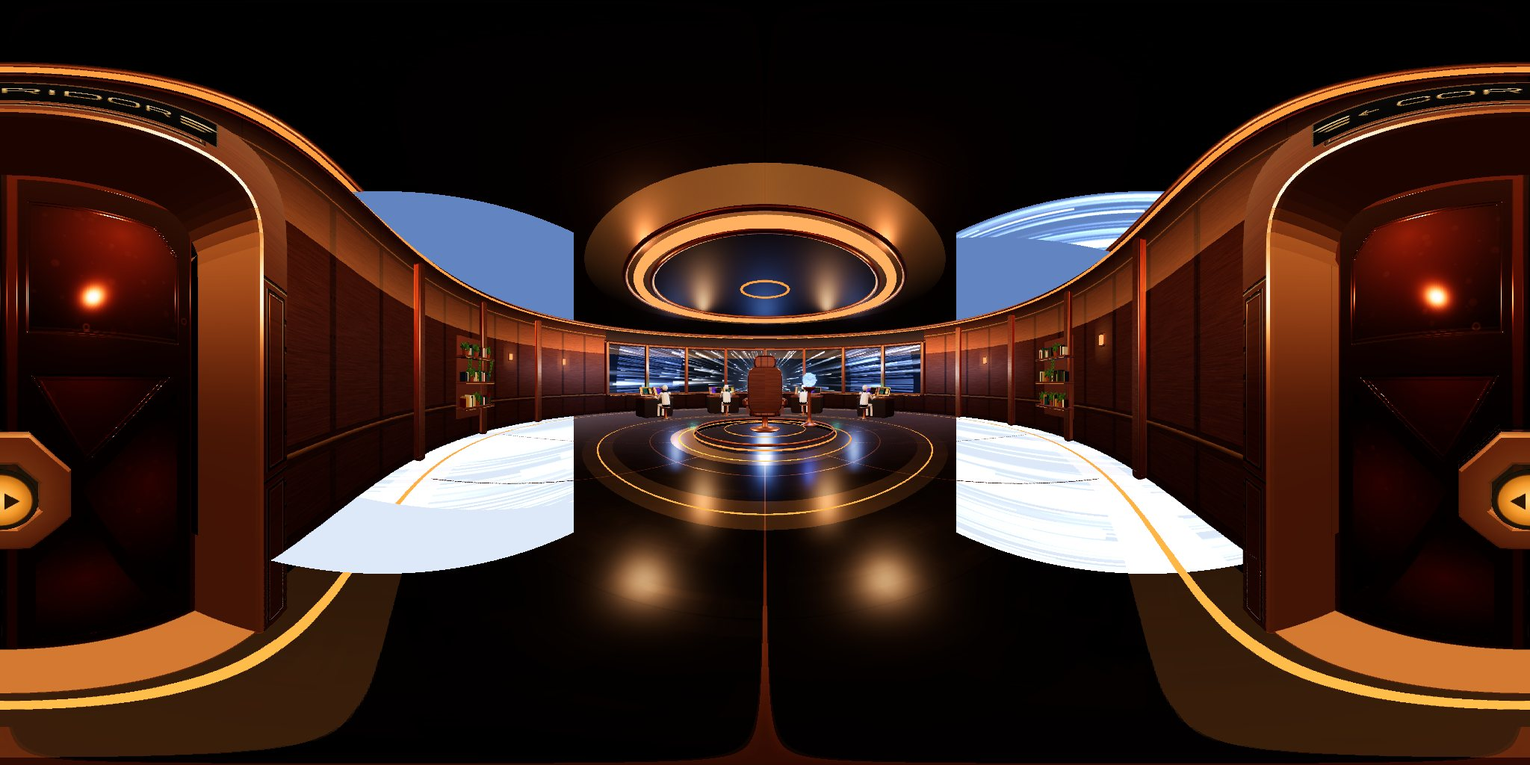
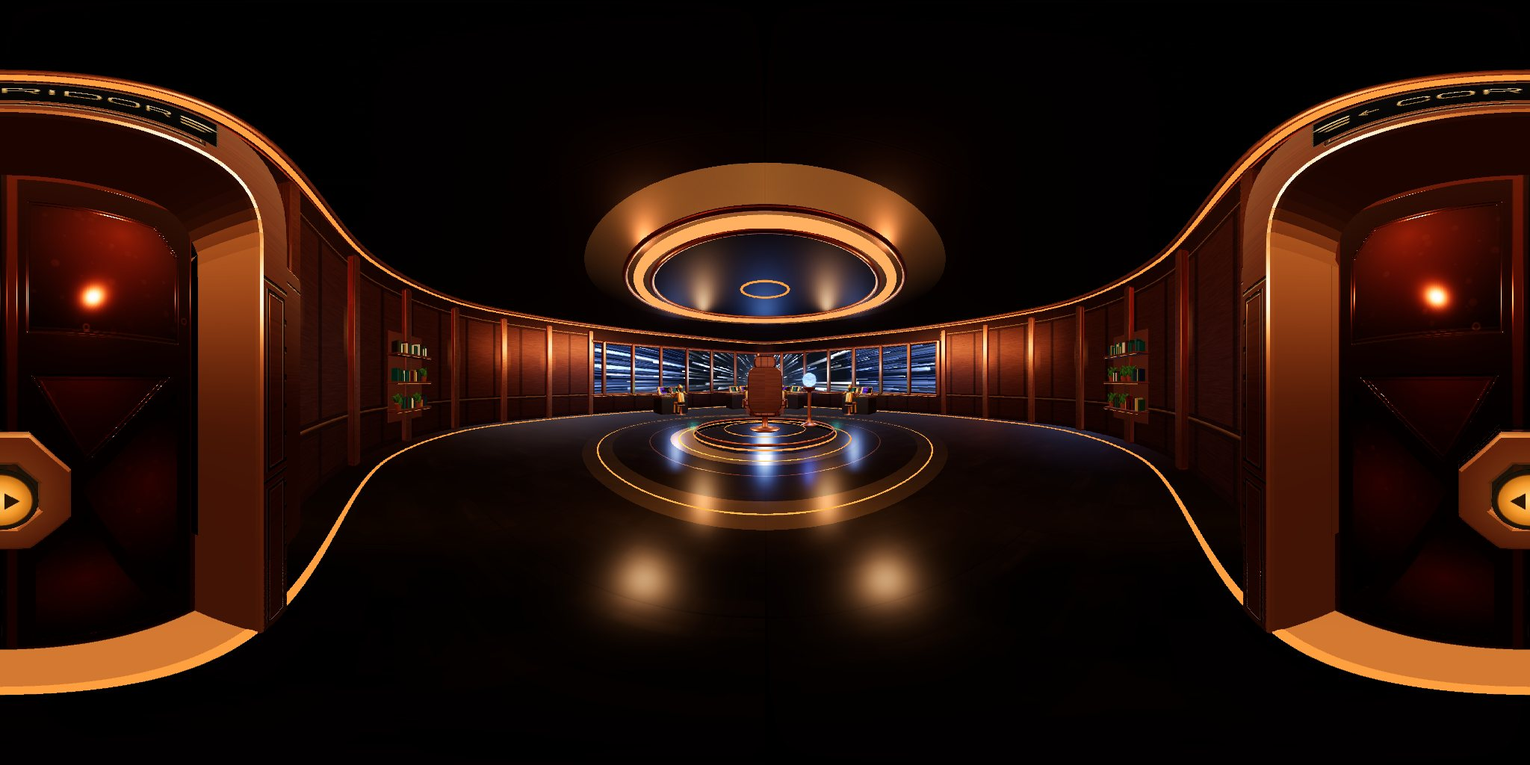
Bridge: guitar-pick room following the ship's pointed nose, window wrapping the tip, console row along it; gold droids; polygon room bounds
Claude-Session: https://claude.ai/code/session_015swmRW9rk9HZt8JyLRwsXT

diff --git a/bridge.html b/bridge.html
@@ -16,11 +16,11 @@
   <meta property="og:image:alt" content="The bronze SS Wayfarer in orbit above a sunlit planet.">
   <meta name="twitter:card" content="summary_large_image">
   <script src="https://aframe.io/releases/1.5.0/aframe.min.js"></script>
-  <script src="mobile.js?v=20261125j"></script>
-  <script src="avatar.js?v=20261125j"></script>
-  <script src="door.js?v=20261125j"></script>
-  <script src="hyperspace.js?v=20261125j"></script>
-  <script src="lcars.js?v=20261125j"></script>
+  <script src="mobile.js?v=20261125k"></script>
+  <script src="avatar.js?v=20261125k"></script>
+  <script src="door.js?v=20261125k"></script>
+  <script src="hyperspace.js?v=20261125k"></script>
+  <script src="lcars.js?v=20261125k"></script>
   <script>if (/[?&]from=flight/.test(location.search)) document.documentElement.className += ' from-flight';</script>
   <style>
     * { margin: 0; padding: 0; box-sizing: border-box; }
@@ -65,7 +65,7 @@
   <!-- Style reference: reference/interiors-doors-closed.jpg (Command Bridge panel).
        Round room (r 8.2): panoramic window across the bow (−Z) showing light speed, amber ceiling ring, raised dais with the
        captain's chair, blue orb on a brass stand, four robots at consoles. Exit (shared door.js) at +Z. -->
-  <a-scene device-orientation-permission-ui="enabled: false" wayfarer-mobile="radius: 7.5" wf-bridge light="defaultLightsEnabled: false"
+  <a-scene device-orientation-permission-ui="enabled: false" wayfarer-mobile="radius: 0" wf-bridge light="defaultLightsEnabled: false"
     background="color: #02040c"
     vr-mode-ui="enabled: true"
     renderer="antialias: true; toneMapping: ACESFilmic; exposure: 1.1">
@@ -170,8 +170,8 @@
         amber:  new THREE.MeshBasicMaterial({ color: 0xffa040, toneMapped: false }),
         lamp:   new THREE.MeshBasicMaterial({ color: 0xffb468, toneMapped: false }),
         leather:new THREE.MeshStandardMaterial({ map: leatherTexture(), roughness: 0.24, metalness: 0.92 }),   // the chair: copper, not leather
-        shell:  new THREE.MeshStandardMaterial({ color: 0xe6e7ea, roughness: 0.28, metalness: 0.25 }),
-        joint:  new THREE.MeshStandardMaterial({ color: 0x2a2c31, roughness: 0.4, metalness: 0.6 }),
+        shell:  new THREE.MeshStandardMaterial({ color: 0xe0b050, roughness: 0.22, metalness: 0.95 }),   // polished gold droids (user: match the metal Bridge)
+        joint:  new THREE.MeshStandardMaterial({ color: 0x4a3218, roughness: 0.35, metalness: 0.85 }),
         wood:   new THREE.MeshStandardMaterial({ color: 0xb87048, roughness: 0.32, metalness: 0.9 }),   // shelves: copper sheet (name kept)
         leaf:   new THREE.MeshStandardMaterial({ color: 0x3f6b2e, roughness: 0.8, side: THREE.DoubleSide }),
         pot:    new THREE.MeshStandardMaterial({ color: 0x8a4a2a, roughness: 0.8 })
@@ -179,51 +179,80 @@
       var add = function (tx, col, op) { return new THREE.MeshBasicMaterial({ map: tx, color: col, transparent: true, opacity: op, blending: THREE.AdditiveBlending, depthWrite: false, toneMapped: false }); };
       var dot = dotTex(), back = Math.PI * 2 - WIN_ARC;
 
-      // ── shell: solid walls round the back, sill + header round the bow, the window between ──
-      var wall = new THREE.CylinderGeometry(R, R, WALL_H, 96, 1, true, Math.PI + WIN_ARC / 2, back);
-      M.wall.map.repeat.set(Math.round(back * R / 1.3), 1); mesh(wall, M.wall, root, 0, WALL_H / 2, 0);
-      var low = new THREE.CylinderGeometry(R, R, WIN_Y0, 64, 1, true, Math.PI - WIN_ARC / 2, WIN_ARC), lowM = M.wall.clone(); lowM.map = M.wall.map.clone(); lowM.map.repeat.set(16, WIN_Y0 / WALL_H); lowM.map.needsUpdate = true;
-      mesh(low, lowM, root, 0, WIN_Y0 / 2, 0);
-      var hi = new THREE.CylinderGeometry(R, R, WALL_H - WIN_Y1, 64, 1, true, Math.PI - WIN_ARC / 2, WIN_ARC); mesh(hi, M.dark, root, 0, (WALL_H + WIN_Y1) / 2, 0).material = new THREE.MeshStandardMaterial({ color: 0x2a211b, roughness: 0.7, metalness: 0.2, side: THREE.BackSide });
-      var glass = new THREE.CylinderGeometry(R - 0.04, R - 0.04, WIN_Y1 - WIN_Y0, 64, 1, true, Math.PI - WIN_ARC / 2, WIN_ARC);
-      mesh(glass, new THREE.MeshBasicMaterial({ color: 0x8fb8ff, transparent: true, opacity: 0.06, depthWrite: false, side: THREE.DoubleSide }), root, 0, (WIN_Y0 + WIN_Y1) / 2, 0);
-      // sill shelf and header beam (bronze), mullions between eight panes
-      var sill = new THREE.RingGeometry(R - 0.42, R, 64, 1, Math.PI / 2 - WIN_ARC / 2 - 0.02, WIN_ARC + 0.04); var sm = mesh(sill, M.bronze, root, 0, WIN_Y0, 0); sm.rotation.x = -Math.PI / 2;
-      [WIN_Y0 + 0.02, WIN_Y1].forEach(function (y, i) { var t = mesh(new THREE.TorusGeometry(R - 0.08, i ? 0.11 : 0.06, 10, 96, WIN_ARC + 0.04), M.bronze, root, 0, y, 0); t.rotation.set(-Math.PI / 2, 0, Math.PI / 2 - WIN_ARC / 2 - 0.02); });
-      var mull = soft(rrect(0.14, WIN_Y1 - WIN_Y0, 0.05), 0.16, 0.025);
-      for (var k = 0; k <= 8; k++) { var th = -WIN_ARC / 2 + k * WIN_ARC / 8, p = polar(th, R - 0.12, (WIN_Y0 + WIN_Y1) / 2), m = mesh(mull, M.bronze, root, p.x, p.y, p.z); m.rotation.y = -th; }
-      // console ledge glow under the window
-      var sg = mesh(new THREE.TorusGeometry(R - 0.42, 0.012, 6, 96, WIN_ARC), M.amber, root, 0, WIN_Y0 - 0.02, 0); sg.rotation.set(-Math.PI / 2, 0, Math.PI / 2 - WIN_ARC / 2);
-
-      // back wall: ribs, sconces, plant shelves either side
-      var leg = soft(rrect(0.2, WALL_H - 0.4, 0.05), 0.1, 0.03), sc0 = soft(rrect(0.2, 0.3, 0.04), 0.02, 0.01), scL = soft(rrect(0.13, 0.2, 0.03), 0.035, 0.01);
-      for (var d = 85; d <= 275; d += 22) {
-        var th2 = d * Math.PI / 180; if (Math.abs(d - 180) < 16) continue;
-        var pl = polar(th2, R - 0.06, (WALL_H - 0.4) / 2), lg = mesh(leg, M.bronze, root, pl.x, pl.y, pl.z); lg.rotation.y = -th2 + Math.PI;
-        var mid = th2 + 11 * Math.PI / 180; if (d + 11 > 275 || Math.abs(d + 11 - 180) < 22 || Math.abs(d + 11 - 125) < 9 || Math.abs(d + 11 - 235) < 9) continue;
-        var ps = polar(mid, R - 0.02, 2.55), b1 = mesh(sc0, M.bronze, root, ps.x, ps.y, ps.z); b1.rotation.y = -mid + Math.PI;
-        var pl2 = polar(mid, R - 0.05, 2.54), b2 = mesh(scL, M.lamp, root, pl2.x, pl2.y, pl2.z); b2.rotation.y = -mid + Math.PI;
-        var gp = polar(mid, R - 0.01, 2.55), gl = mesh(new THREE.PlaneGeometry(1.2, 1.2), add(dot, 0xff9a3c, 0.4), root, gp.x, gp.y, gp.z); gl.rotation.y = -mid;
+      // ── the room is a GUITAR PICK (user, Nov 25 + reference/ship-topdown-interior.jpg): the ship's nose is a rounded triangle,
+      //    so the Bridge narrows to a point at the bow (−Z) with the window wrapped round the point and a wide back edge (door).
+      var CP = [[0, 8.3], [5.2, 7.6], [8.1, 4.6], [8.6, 0.5], [7.3, -3.8], [4.8, -7.2], [2.0, -9.6], [0, -10.4], [-2.0, -9.6], [-4.8, -7.2], [-7.3, -3.8], [-8.6, 0.5], [-8.1, 4.6], [-5.2, 7.6]];
+      var curve = new THREE.CatmullRomCurve3(CP.map(function (q) { return new THREE.Vector3(q[0], 0, q[1]); }), true, 'centripetal');
+      var NP = 220, P = curve.getSpacedPoints(NP).slice(0, NP), Nrm = [], arc = [0];
+      for (var i = 0; i < NP; i++) { var a0 = P[(i + NP - 1) % NP], a1 = P[(i + 1) % NP], tx = a1.x - a0.x, tz = a1.z - a0.z, n = new THREE.Vector3(-tz, 0, tx).normalize(); if (n.x * (0 - P[i].x) + n.z * (-0.6 - P[i].z) < 0) n.negate(); Nrm.push(n); if (i) arc.push(arc[i - 1] + P[i].distanceTo(P[i - 1])); }
+      var LEN = arc[NP - 1] + P[NP - 1].distanceTo(P[0]);
+      window.WAYFARER.bounds = P.map(function (q) { return [q.x, q.z]; });              // mobile.js + avatar.js keep you (and the lens) inside this
+      function isWin(i) { return P[i].z < -2.2; }
+      function strip(idx, y0, y1, mat, inset, uvFn, closed) {                           // a vertical ribbon along outline points
+        var pos = [], uv = [], ind = [], SEG = 6, L = idx.length;
+        idx.forEach(function (i, k) { for (var j = 0; j <= SEG; j++) { var y = y0 + (y1 - y0) * j / SEG, q = P[i].clone().addScaledVector(Nrm[i], inset || 0); pos.push(q.x, y, q.z); var u = uvFn ? uvFn(i, y) : [arc[i] / 1.3, y / WALL_H]; uv.push(u[0], u[1]); } });
+        for (var k = 0; k < L - 1 + (closed ? 1 : 0); k++) for (var j = 0; j < SEG; j++) { var a = k * (SEG + 1) + j, b = ((k + 1) % L) * (SEG + 1) + j; ind.push(a, b, a + 1, a + 1, b, b + 1); }
+        var g = new THREE.BufferGeometry(); g.setAttribute('position', new THREE.Float32BufferAttribute(pos, 3)); g.setAttribute('uv', new THREE.Float32BufferAttribute(uv, 2)); g.setIndex(ind); g.computeVertexNormals();
+        var m = mat.clone ? mat : mat; var o = new THREE.Mesh(g, m); root.add(o); return o;
       }
-      [125, 235].forEach(function (dg) { plantShelf(dg * Math.PI / 180); });
+      function tube(idx, y, inset, r, mat, closed) { var pts = idx.map(function (i) { var q = P[i].clone().addScaledVector(Nrm[i], inset); q.y = y; return q; }); return mesh(new THREE.TubeGeometry(new THREE.CatmullRomCurve3(pts, !!closed), Math.max(8, pts.length * 2), r, 6, !!closed), mat, root); }
+      function fan(y, mat, flip) {                                                        // floor/ceiling: tessellated rings from the middle out (no long thin fan triangles)
+        var C = new THREE.Vector3(0, y, -0.6), RS = 14, pos = [], uv = [], ind = [];
+        for (var i = 0; i < NP; i++) for (var k = 0; k <= RS; k++) { var t = k / RS, x = C.x + (P[i].x - C.x) * t, z = C.z + (P[i].z - C.z) * t; pos.push(x, y, z); uv.push(x / 16.4 + 0.5, z / 16.4 + 0.5); }
+        for (i = 0; i < NP; i++) for (k = 0; k < RS; k++) { var a = i * (RS + 1) + k, b = ((i + 1) % NP) * (RS + 1) + k; if (flip) ind.push(a, a + 1, b, a + 1, b + 1, b); else ind.push(a, b, a + 1, a + 1, b, b + 1); }
+        var g = new THREE.BufferGeometry(); g.setAttribute('position', new THREE.Float32BufferAttribute(pos, 3)); g.setAttribute('uv', new THREE.Float32BufferAttribute(uv, 2)); g.setIndex(ind); g.computeVertexNormals(); return mesh(g, mat, root);
+      }
+      var all = [], winI = [], wallRuns = [], run = null;
+      for (i = 0; i < NP; i++) { all.push(i); if (isWin(i)) winI.push(i); }
+      // window indices are contiguous round the tip; walk from the first non-window point so runs don't wrap
+      var start = 0; while (isWin(start)) start++; for (k = 0; k < NP; k++) { i = (start + k) % NP; if (!isWin(i)) { if (!run) { run = []; wallRuns.push(run); } run.push(i); } else run = null; }
+      var wi = winI.slice().sort(function (a, b) { return P[a].x - P[b].x; });   // window run ordered port → starboard
+      wi = []; for (k = 0; k < NP; k++) { i = (start + k) % NP; if (isWin(i)) wi.push(i); }
+      wi.unshift((wi[0] + NP - 1) % NP); wi.push((wi[wi.length - 1] + 1) % NP);  // overlap one point into the walls
+      M.wall.side = THREE.DoubleSide; M.wall.map.repeat.set(1, 1);
+      wallRuns.forEach(function (r2) { var ext = [(r2[0] + NP - 1) % NP].concat(r2, [(r2[r2.length - 1] + 1) % NP]); strip(ext, 0, WALL_H, M.wall); });
+      var lowM = M.wall.clone(); strip(wi, 0, WIN_Y0, lowM);
+      strip(wi, WIN_Y1, WALL_H, new THREE.MeshStandardMaterial({ color: 0x3a2216, roughness: 0.4, metalness: 0.75, side: THREE.DoubleSide }));
+      strip(wi, WIN_Y0, WIN_Y1, new THREE.MeshBasicMaterial({ color: 0x8fb8ff, transparent: true, opacity: 0.06, depthWrite: false, side: THREE.DoubleSide }), -0.02);
+      tube(wi, WIN_Y0 + 0.02, 0.08, 0.07, M.bronze); tube(wi, WIN_Y1, 0.06, 0.11, M.bronze);                   // sill + header
+      tube(wi, WIN_Y0 - 0.03, 0.4, 0.014, M.amber);                                                           // ledge glow
+      var ledge = strip(wi, WIN_Y0 - 0.06, WIN_Y0, M.bronze, 0.2);
+      var mull = soft(rrect(0.14, WIN_Y1 - WIN_Y0, 0.05), 0.16, 0.025), nextM = 0;
+      wi.forEach(function (i2) { if (arc[i2] < nextM && Math.abs(arc[i2] - nextM) < LEN / 2) return; nextM = arc[i2] + 1.55; var q = P[i2].clone().addScaledVector(Nrm[i2], 0.1), mm = mesh(mull, M.bronze, root, q.x, (WIN_Y0 + WIN_Y1) / 2, q.z); mm.rotation.y = Math.atan2(Nrm[i2].x, Nrm[i2].z); });
 
-      // ── ceiling: dark coffers, the big amber ring, a perimeter cove ──
-      var ce = mesh(new THREE.CircleGeometry(R, 96), M.ceil, root, 0, WALL_H, 0); ce.rotation.x = Math.PI / 2;
+      // walls: ribs, sconces, plant shelves; nothing over the door (+Z, |x| < 1.7)
+      var leg = soft(rrect(0.2, WALL_H - 0.4, 0.05), 0.1, 0.03), sc0 = soft(rrect(0.2, 0.3, 0.04), 0.02, 0.01), scL = soft(rrect(0.13, 0.2, 0.03), 0.035, 0.01), lastRib = -9;
+      var shelfAt = [];
+      wallRuns.forEach(function (r2) { r2.forEach(function (i2, k2) {
+        if (P[i2].z > 6.9 && Math.abs(P[i2].x) < 1.9) return;
+        if (Math.abs(arc[i2] - lastRib) < 2.3) return; lastRib = arc[i2];
+        var q = P[i2].clone().addScaledVector(Nrm[i2], 0.06), ry = Math.atan2(Nrm[i2].x, Nrm[i2].z), lg = mesh(leg, M.bronze, root, q.x, (WALL_H - 0.4) / 2, q.z); lg.rotation.y = ry;
+        var j2 = r2[Math.min(r2.length - 1, k2 + Math.round(r2.length > 12 ? 9 : 4))]; if (P[j2].z > 6.9 && Math.abs(P[j2].x) < 2.2) return;
+        var qs = P[j2].clone().addScaledVector(Nrm[j2], 0.03), ry2 = Math.atan2(Nrm[j2].x, Nrm[j2].z);
+        if (Math.abs(P[j2].x) > 5.6 && Math.abs(P[j2].x) < 7.6 && P[j2].z > 3 && shelfAt.length < 2 && !shelfAt.some(function (z) { return Math.sign(z) === Math.sign(P[j2].x); })) { shelfAt.push(P[j2].x); plantShelfAt(P[j2], Nrm[j2]); return; }
+        var b1 = mesh(sc0, M.bronze, root, qs.x, 2.55, qs.z); b1.rotation.y = ry2;
+        var q2 = P[j2].clone().addScaledVector(Nrm[j2], 0.05), b2 = mesh(scL, M.lamp, root, q2.x, 2.54, q2.z); b2.rotation.y = ry2;
+        var gq = P[j2].clone().addScaledVector(Nrm[j2], 0.01), gl = mesh(new THREE.PlaneGeometry(1.2, 1.2), add(dot, 0xff9a3c, 0.4), root, gq.x, 2.55, gq.z); gl.rotation.y = ry2;
+      }); });
+
+      // ── ceiling: dark coffers, the big amber ring, a cove that follows the pick outline ──
+      fan(WALL_H, M.ceil, true);
       var ring = mesh(new THREE.TorusGeometry(3.6, 0.13, 12, 128), new THREE.MeshBasicMaterial({ color: 0xffb060, toneMapped: false }), root, 0, WALL_H - 0.16, 0); ring.rotation.x = Math.PI / 2;
       [3.25, 3.95].forEach(function (rr) { var t = mesh(new THREE.TorusGeometry(rr, 0.07, 10, 128), M.bronze, root, 0, WALL_H - 0.12, 0); t.rotation.x = Math.PI / 2; });
       var halo = mesh(new THREE.RingGeometry(2.4, 4.9, 96, 1), add(radialRing(), 0xff9a40, 0.55), root, 0, WALL_H - 0.02, 0); halo.rotation.x = Math.PI / 2;
       var inner = mesh(new THREE.CircleGeometry(3.2, 64), new THREE.MeshStandardMaterial({ color: 0x120d0a, roughness: 0.6, metalness: 0.3, side: THREE.DoubleSide }), root, 0, WALL_H - 0.08, 0); inner.rotation.x = Math.PI / 2;
       var core = mesh(new THREE.TorusGeometry(0.7, 0.04, 8, 64), M.amber, root, 0, WALL_H - 0.1, 0); core.rotation.x = Math.PI / 2;
-      var cove = mesh(new THREE.TorusGeometry(R - 0.12, 0.035, 6, 160), M.amber, root, 0, WALL_H - 0.18, 0); cove.rotation.x = Math.PI / 2;
-      var coveW = mesh(new THREE.CylinderGeometry(R - 0.02, R - 0.02, 1.3, 96, 1, true), add(rampTex(false), 0xff9a40, 0.35), root, 0, WALL_H - 0.85, 0); coveW.material.side = THREE.BackSide;
-      coveW.material.map.rotation = Math.PI / 2; coveW.material.map.center.set(0.5, 0.5);
-      var crn = mesh(new THREE.TorusGeometry(R - 0.1, 0.09, 8, 160), M.bronze, root, 0, WALL_H - 0.08, 0); crn.rotation.x = Math.PI / 2;
+      tube(all, WALL_H - 0.18, 0.12, 0.035, M.amber, true); tube(all, WALL_H - 0.08, 0.1, 0.09, M.bronze, true);
+      strip(all.concat([0]), WALL_H - 1.5, WALL_H - 0.2, add(rampTex(false), 0xff9a40, 0.35), 0.02, function (i2, y) { return [(WALL_H - 0.2 - y) / 1.3, arc[i2] / 4]; });
 
-      // ── floor: polished deck, amber inlay rings, radial bronze lines ──
-      var fl = mesh(new THREE.CircleGeometry(R, 96), M.floor, root); fl.rotation.x = -Math.PI / 2;
-      [[DAIS_R + 0.45, 0.025, M.amber], [4.6, 0.02, M.amber], [R - 0.55, 0.03, M.amber], [3.3, 0.015, M.bronze]].forEach(function (q) { var t = mesh(new THREE.RingGeometry(q[0] - q[1], q[0] + q[1], 128), q[2], root, 0, 0.004, 0); t.rotation.x = -Math.PI / 2; });
-      for (var a = 0; a < 12; a++) { var ang = a / 12 * Math.PI * 2, ln = mesh(new THREE.PlaneGeometry(0.02, R - 0.7 - 2.6), M.bronze, root); var mp = polar(ang, (2.6 + R - 0.7) / 2, 0.004); ln.position.copy(mp); ln.rotation.set(-Math.PI / 2, 0, -ang); }
-      [4.6, R - 0.55].forEach(function (rr) { var gr = mesh(new THREE.RingGeometry(rr - 0.35, rr + 0.35, 128), add(radialRing(), 0xff8a30, 0.22), root, 0, 0.005, 0); gr.rotation.x = -Math.PI / 2; });
+      // ── floor: polished deck in the pick shape, amber inlay following the walls, rings round the dais ──
+      fan(0, M.floor, true);
+      [[DAIS_R + 0.45, 0.025, M.amber], [4.6, 0.02, M.amber], [3.3, 0.015, M.bronze]].forEach(function (q) { var t = mesh(new THREE.RingGeometry(q[0] - q[1], q[0] + q[1], 128), q[2], root, 0, 0.004, 0); t.rotation.x = -Math.PI / 2; });
+      tube(all, 0.006, 0.55, 0.03, M.amber, true);
+      var gr = mesh(new THREE.RingGeometry(4.25, 4.95, 128), add(radialRing(), 0xff8a30, 0.22), root, 0, 0.005, 0); gr.rotation.x = -Math.PI / 2;
+      // console row: four stations spaced along the window, set back from the glass and facing it
+      var SPOTS = [0.16, 0.38, 0.62, 0.84].map(function (f) { var i2 = wi[Math.round(1 + f * (wi.length - 3))], q = P[i2].clone().addScaledVector(Nrm[i2], 1.7); return { pos: q, ry: Math.atan2(Nrm[i2].x, Nrm[i2].z) }; });
+      window.__SPOTS = SPOTS;
 
       buildDais(add, dot); buildOrb(add, dot); buildStations(add, dot);
 
@@ -241,8 +270,8 @@
     function radialRing() { var c = cv(256, 4), x = c.getContext('2d'), g = x.createLinearGradient(0, 0, 256, 0); g.addColorStop(0, 'rgba(255,255,255,0)'); g.addColorStop(0.5, 'rgba(255,255,255,1)'); g.addColorStop(1, 'rgba(255,255,255,0)'); x.fillStyle = g; x.fillRect(0, 0, 256, 4); var t = new THREE.CanvasTexture(c); return t; }
 
     // ── wall-hung shelf with plants and a few books ──
-    function plantShelf(th) {
-      var g = new THREE.Group(), p = polar(th, R - 0.2, 0); g.position.copy(p); g.rotation.y = -th; root.add(g);   // local +z faces the room
+    function plantShelfAt(pt, nr) {
+      var th = Math.atan2(pt.x, -pt.z), g = new THREE.Group(), p = pt.clone().addScaledVector(nr, 0.2); p.y = 0; g.position.copy(p); g.rotation.y = Math.atan2(nr.x, nr.z); root.add(g);   // local +z faces the room
       mesh(new THREE.BoxGeometry(1.5, 2.3, 0.04), M.wood, g, 0, 1.75, -0.16);
       var r = rng(Math.round(th * 100));
       [0.9, 1.6, 2.3].forEach(function (y, row) {
@@ -306,8 +335,8 @@
     // ── four robots at curved consoles, facing the window ──
     function buildStations(add, dot) {
       var desk = soft(rrect(1.5, 0.6, 0.12), 0.8, 0.04), top = soft(rrect(1.56, 0.08, 0.03), 0.84, 0.02);
-      [-58, -22, 22, 58].forEach(function (deg, si) {
-        var th = deg * Math.PI / 180, g = new THREE.Group(); g.position.copy(polar(th, 6.0, 0)); g.rotation.y = -th; root.add(g);   // local −Z = toward the window
+      window.__SPOTS.forEach(function (sp, si) {
+        var g = new THREE.Group(); g.position.copy(sp.pos); g.position.y = 0; g.rotation.y = sp.ry; root.add(g);   // local −Z = toward the window
         var dk = mesh(desk, M.dark, g, 0, 0.42, 0); dk.scale.y = 1.4;
         mesh(top, M.bronze, g, 0, 0.86, 0);
         var strip = mesh(new THREE.BoxGeometry(1.5, 0.015, 0.015), M.amber, g, 0, 0.82, 0.43);

diff --git a/mobile.js b/mobile.js
@@ -49,6 +49,21 @@
     walk: '<svg viewBox="0 0 24 24"><path d="M12 4l3 3H9zM12 20l3-3H9zM4 12l3-3v6zM20 12l-3-3v6z" fill="currentColor"/></svg>',
     look: '<svg viewBox="0 0 24 24"><path d="M2 12s3.5-6 10-6 10 6 10 6-3.5 6-10 6S2 12 2 12z"/><circle cx="12" cy="12" r="2.5"/></svg>'
   };
+  // point-in-polygon + push back inside by `pad` (returns null when already fine). Shared with avatar.js via WAYFARER.clampPoly.
+  function clampPoly(B, x, z, pad) {
+    var inside = false, best = 1e9, bx = 0, bz = 0, nx = 0, nz = 0;
+    for (var i = 0, j = B.length - 1; i < B.length; j = i++) {
+      var xi = B[i][0], zi = B[i][1], xj = B[j][0], zj = B[j][1];
+      if (((zi > z) !== (zj > z)) && (x < (xj - xi) * (z - zi) / (zj - zi) + xi)) inside = !inside;
+      var ex = xi - xj, ez = zi - zj, L = ex * ex + ez * ez || 1, t = Math.max(0, Math.min(1, ((x - xj) * ex + (z - zj) * ez) / L)), px = xj + ex * t, pz = zj + ez * t, d = Math.hypot(x - px, z - pz);
+      if (d < best) { best = d; bx = px; bz = pz; var l = Math.sqrt(L); nx = -ez / l; nz = ex / l; }
+    }
+    if (inside && best >= pad) return null;
+    var cx = 0, cz = 0; B.forEach(function (q) { cx += q[0]; cz += q[1]; }); cx /= B.length; cz /= B.length;
+    if (nx * (cx - bx) + nz * (cz - bz) < 0) { nx = -nx; nz = -nz; }            // normal pointing into the room
+    return [bx + nx * pad, bz + nz * pad];
+  }
+  window.WAYFARER.clampPoly = clampPoly;
   AFRAME.registerComponent('wayfarer-mobile', {
     schema: { speed: { default: 2.6 }, radius: { default: 0 }, collide: { default: true } },
 
@@ -278,7 +293,11 @@
         if (lp.x < 1e8 && Math.abs(m.position.x - lp.x) + Math.abs(m.position.z - lp.z) > 1e-5) this.collide(m, lp);   // only while moving
         lp.copy(m.position);
       }
-      if (this.data.radius > 0) {                           // keep keyboard + stick inside the room
+      var B = window.WAYFARER && window.WAYFARER.bounds;
+      if (B && B.length > 2) {                              // a shaped room (the Bridge's guitar pick): stay 0.35 m inside its outline
+        m.getWorldPosition(this.wp); var q = clampPoly(B, this.wp.x, this.wp.z, 0.35);
+        if (q) { m.position.x += q[0] - this.wp.x; m.position.z += q[1] - this.wp.z; }
+      } else if (this.data.radius > 0) {                    // keep keyboard + stick inside the room
         m.getWorldPosition(this.wp);
         var r = Math.sqrt(this.wp.x * this.wp.x + this.wp.z * this.wp.z);
         if (r > this.data.radius) {

diff --git a/lounge.html b/lounge.html
@@ -15,14 +15,14 @@
   <meta property="og:image:height" content="630">
   <meta property="og:image:alt" content="The bronze SS Wayfarer in orbit above a sunlit planet.">
   <meta name="twitter:card" content="summary_large_image">
-  <script src="textures.js?v=20261125j"></script>
+  <script src="textures.js?v=20261125k"></script>
   <script src="https://aframe.io/releases/1.5.0/aframe.min.js"></script>
-  <script src="mobile.js?v=20261125j"></script>
-  <script src="avatar.js?v=20261125j"></script>
-  <script src="door.js?v=20261125j"></script>
-  <script src="props.js?v=20261125j"></script>
-  <script src="hyperspace.js?v=20261125j"></script>
-  <script src="cats.js?v=20261125j"></script>
+  <script src="mobile.js?v=20261125k"></script>
+  <script src="avatar.js?v=20261125k"></script>
+  <script src="door.js?v=20261125k"></script>
+  <script src="props.js?v=20261125k"></script>
+  <script src="hyperspace.js?v=20261125k"></script>
+  <script src="cats.js?v=20261125k"></script>
   <style>
     * { margin: 0; padding: 0; box-sizing: border-box; }
     body { overflow: hidden; background: #000; }

diff --git a/library.html b/library.html
@@ -18,14 +18,14 @@
   <meta name="theme-color" content="#000208">
   <meta name="apple-mobile-web-app-capable" content="yes">
   <meta name="mobile-web-app-capable" content="yes">
-  <script src="textures.js?v=20261125j"></script>
+  <script src="textures.js?v=20261125k"></script>
   <script src="https://aframe.io/releases/1.5.0/aframe.min.js"></script>
-  <script src="brain.js?v=20261125j"></script>
-  <script src="mobile.js?v=20261125j"></script>
-  <script src="avatar.js?v=20261125j"></script>
-  <script src="door.js?v=20261125j"></script>
-  <script src="props.js?v=20261125j"></script>
-  <script src="hyperspace.js?v=20261125j"></script>
+  <script src="brain.js?v=20261125k"></script>
+  <script src="mobile.js?v=20261125k"></script>
+  <script src="avatar.js?v=20261125k"></script>
+  <script src="door.js?v=20261125k"></script>
+  <script src="props.js?v=20261125k"></script>
+  <script src="hyperspace.js?v=20261125k"></script>
   <style>
     * { margin: 0; padding: 0; box-sizing: border-box; }
     body { overflow: hidden; background: #000; }

diff --git a/index.html b/index.html
@@ -15,12 +15,12 @@
   <meta property="og:image:height" content="630">
   <meta property="og:image:alt" content="The bronze SS Wayfarer in orbit above a sunlit planet.">
   <meta name="twitter:card" content="summary_large_image">
-  <script src="textures.js?v=20261125j"></script>
+  <script src="textures.js?v=20261125k"></script>
   <script src="https://aframe.io/releases/1.5.0/aframe.min.js"></script>
-  <script src="mobile.js?v=20261125j"></script>
-  <script src="avatar.js?v=20261125j"></script>
-  <script src="door.js?v=20261125j"></script>
-  <script src="hyperspace.js?v=20261125j"></script>
+  <script src="mobile.js?v=20261125k"></script>
+  <script src="avatar.js?v=20261125k"></script>
+  <script src="door.js?v=20261125k"></script>
+  <script src="hyperspace.js?v=20261125k"></script>
   <style>
     * { margin: 0; padding: 0; box-sizing: border-box; }
     body { overflow: hidden; background: #000; }

diff --git a/holodeck.html b/holodeck.html
@@ -26,13 +26,13 @@
     g.beginPath(); g.moveTo(0,0); g.lineTo(0,128); g.stroke();
     window.GRID_TEX = gc.toDataURL();
   </script>
-  <script src="textures.js?v=20261125j"></script>
+  <script src="textures.js?v=20261125k"></script>
   <script src="https://aframe.io/releases/1.5.0/aframe.min.js"></script>
-  <script src="mobile.js?v=20261125j"></script>
-  <script src="avatar.js?v=20261125j"></script>
-  <script src="door.js?v=20261125j"></script>
-  <script src="props.js?v=20261125j"></script>
-  <script src="stargarden.js?v=20261125j"></script>
+  <script src="mobile.js?v=20261125k"></script>
+  <script src="avatar.js?v=20261125k"></script>
+  <script src="door.js?v=20261125k"></script>
+  <script src="props.js?v=20261125k"></script>
+  <script src="stargarden.js?v=20261125k"></script>
   <style>
     * { margin:0; padding:0; box-sizing:border-box; }
     body { overflow:hidden; background:#000; }

diff --git a/avatar.js b/avatar.js
@@ -115,7 +115,7 @@
         back = 2.4; up = 0.45; var R = 0, mob = this.el.components['wayfarer-mobile']; if (mob) R = mob.data.radius;
         var fx = Math.sin(e.y), fz = Math.cos(e.y);                // camera's backward direction in XZ
         for (var i = 0; i < 12; i++) {
-          var cx = wp.x + fx * back, cz = wp.z + fz * back, ok = R > 0 ? Math.hypot(cx, cz) < R - 0.35 : (Math.abs(cx) < 2.3 && Math.abs(cz) < 12.3);
+          var cx = wp.x + fx * back, cz = wp.z + fz * back, BB = window.WAYFARER.bounds, ok = BB ? !window.WAYFARER.clampPoly(BB, cx, cz, 0.35) : R > 0 ? Math.hypot(cx, cz) < R - 0.35 : (Math.abs(cx) < 2.3 && Math.abs(cz) < 12.3);
           if (ok) break; back *= 0.8;
         }
         if (back < 1.1) { back = 0; up = 0; third = false; J.root.visible = false; }   // no room behind you (doorways, walls): drop to 1st person

diff --git a/station.html b/station.html
@@ -9,10 +9,10 @@
   <link rel="icon" href="/aspentrail/icons/favicon.ico">
   <script>if (/[?&]from=dock/.test(location.search)) document.documentElement.className += ' from-dock';</script>
   <script src="https://aframe.io/releases/1.5.0/aframe.min.js"></script>
-  <script src="mobile.js?v=20261125j"></script>
-  <script src="avatar.js?v=20261125j"></script>
-  <script src="lcars.js?v=20261125j"></script>
-  <script src="missions.js?v=20261125j"></script>
+  <script src="mobile.js?v=20261125k"></script>
+  <script src="avatar.js?v=20261125k"></script>
+  <script src="lcars.js?v=20261125k"></script>
+  <script src="missions.js?v=20261125k"></script>
   <style>
     * { margin: 0; padding: 0; box-sizing: border-box; }
     body { overflow: hidden; background: #000; }

diff --git a/media.html b/media.html
@@ -16,10 +16,10 @@
   <meta property="og:image:alt" content="The bronze SS Wayfarer in orbit above a sunlit planet.">
   <meta name="twitter:card" content="summary_large_image">
   <script src="https://aframe.io/releases/1.5.0/aframe.min.js"></script>
-  <script src="mobile.js?v=20261125j"></script>
-  <script src="avatar.js?v=20261125j"></script>
-  <script src="door.js?v=20261125j"></script>
-  <script src="props.js?v=20261125j"></script>
+  <script src="mobile.js?v=20261125k"></script>
+  <script src="avatar.js?v=20261125k"></script>
+  <script src="door.js?v=20261125k"></script>
+  <script src="props.js?v=20261125k"></script>
   <style>
     * { margin: 0; padding: 0; box-sizing: border-box; }
     body { overflow: hidden; background: #000; }

diff --git a/minigame.html b/minigame.html
@@ -17,8 +17,8 @@
   <meta name="twitter:card" content="summary_large_image">
   <script src="https://cdnjs.cloudflare.com/ajax/libs/three.js/r128/three.min.js"></script>
   <script src="https://cdn.jsdelivr.net/npm/three@0.128.0/examples/js/loaders/GLTFLoader.js"></script>
-  <script src="shipskin.js?v=20261125j"></script>
-  <script src="missions.js?v=20261125j"></script>
+  <script src="shipskin.js?v=20261125k"></script>
+  <script src="missions.js?v=20261125k"></script>
   <script>if (/[?&]from=(bridge|station)/.test(location.search)) document.documentElement.className += ' from-bridge';</script>
   <style>
     * { margin: 0; padding: 0; box-sizing: border-box; }

diff --git a/hangar.html b/hangar.html
@@ -9,7 +9,7 @@
   <link rel="icon" href="/aspentrail/icons/favicon.ico">
   <script src="https://cdnjs.cloudflare.com/ajax/libs/three.js/r128/three.min.js"></script>
   <script src="https://cdn.jsdelivr.net/npm/three@0.128.0/examples/js/loaders/GLTFLoader.js"></script>
-  <script src="shipskin.js?v=20261125j"></script>
+  <script src="shipskin.js?v=20261125k"></script>
   <script src="https://cdn.jsdelivr.net/npm/three@0.128.0/examples/js/controls/OrbitControls.js"></script>
   <style>
     * { margin: 0; padding: 0; box-sizing: border-box; }

diff --git a/CLAUDE.md b/CLAUDE.md
@@ -25,6 +25,7 @@ functional workspace. A-Frame (WebXR), so it runs in a browser, on iPhone, and i
 | `cutaway-layout.jpg` | Floor plan: which room sits where. Its near engine is misplaced — ignore it for the exterior |
 | `exterior-views.jpg` | Hull shape, engines, dome (orthographic sheet) — authority for anything exterior |
 | `exterior-hero.jpg` | Hull materials and mood |
+| `ship-topdown-interior.jpg` | Top-down exterior + cutaway (Nov 25): Bridge is a POINTED, guitar-pick room in the nose; consoles along the front window |
 | `app-icon-source.jpg` | Source of the app icon (icons/ use it with the neon frame removed) |
 
 Rules drawn from them:
@@ -56,7 +57,7 @@ Rules drawn from them:
 - A-Frame 1.5.0 from the aframe.io CDN, no build step, plain HTML/JS
 - GitHub Pages deploys from branch `claude/hello-mssbj4` (site: spawnshark.github.io/aspentrail).
   Session work happens on a `claude/...` branch; it is live only after it reaches `claude/hello-mssbj4`.
-- Local scripts are loaded with `?v=<date+letter>` (Safari cached old door.js/mobile.js) — bump it in every page on each push (now 20261125j).
+- Local scripts are loaded with `?v=<date+letter>` (Safari cached old door.js/mobile.js) — bump it in every page on each push (now 20261125k).
 - Shared scripts: `textures.js` (procedural textures), `mobile.js` (touch controls, Nov 24 v3 — user: "like it was in the
   beginning"): NO bar. Two floating frosted-glass thumbsticks in the bottom corners: left = analog walk joystick, right = look
   stick; bottom-centre two round glass buttons, icons only: Gyro = VR headset, Level = spirit level. Real glassmorphism (dark
@@ -113,7 +114,12 @@ Rules drawn from them:
   - **Regenerate the photos whenever a room or the corridor changes:** `python3 -m http.server 8765` in the repo,
     then `node tools/capture-portals.js` (env: `AF=<local aframe-v1.5.0.min.js>` in cloud sessions,
     `ONLY=lounge,media` to redo some, `SKIP_CORRIDOR=1`). Stale photos = the preview won't match the room.
-- **Command Bridge** (`bridge.html`) — ALL METAL (user, Nov 25: "looks like a 1970s wooden trailer"): NO wood anywhere — brushed
+- **Command Bridge** (`bridge.html`) — GUITAR-PICK ROOM (Nov 25, user + reference/ship-topdown-interior.jpg): outline = closed
+  centripetal CatmullRom through CP (tip z −10.4, back edge z 8.3, max half-width 8.6), walls/window/floor/ceiling/cove built
+  from it (`strip`, `tube`, `fan` helpers; fan = tessellated rings, never one big fan). Window = outline points with z < −2.2,
+  wrapping the tip; the 4 consoles sit 1.7 m inside it (`__SPOTS`) facing the glass. Movement uses `WAYFARER.bounds` (polygon,
+  mobile.js `clampPoly`, 0.35 m pad; wayfarer-mobile radius 0) — avatar 3rd-person camera respects it too. Droids are polished
+  GOLD (M.shell) with dark bronze joints. ALL METAL (user, Nov 25: "looks like a 1970s wooden trailer"): NO wood anywhere — brushed
   copper (bronzeTexture), riveted copper wall plates, copper ceiling, polished ribbed-copper captain's chair (M.leather name kept),
   copper shelves (M.wood name kept), and the shared exit door re-tinted to copper on this page only. RESTYLED Nov 24 to the reference, all procedural three.js: round room r 8.2;
   panoramic curved window across the bow (−Z, 140°, eight panes, bronze mullions, sill + header) showing light speed
